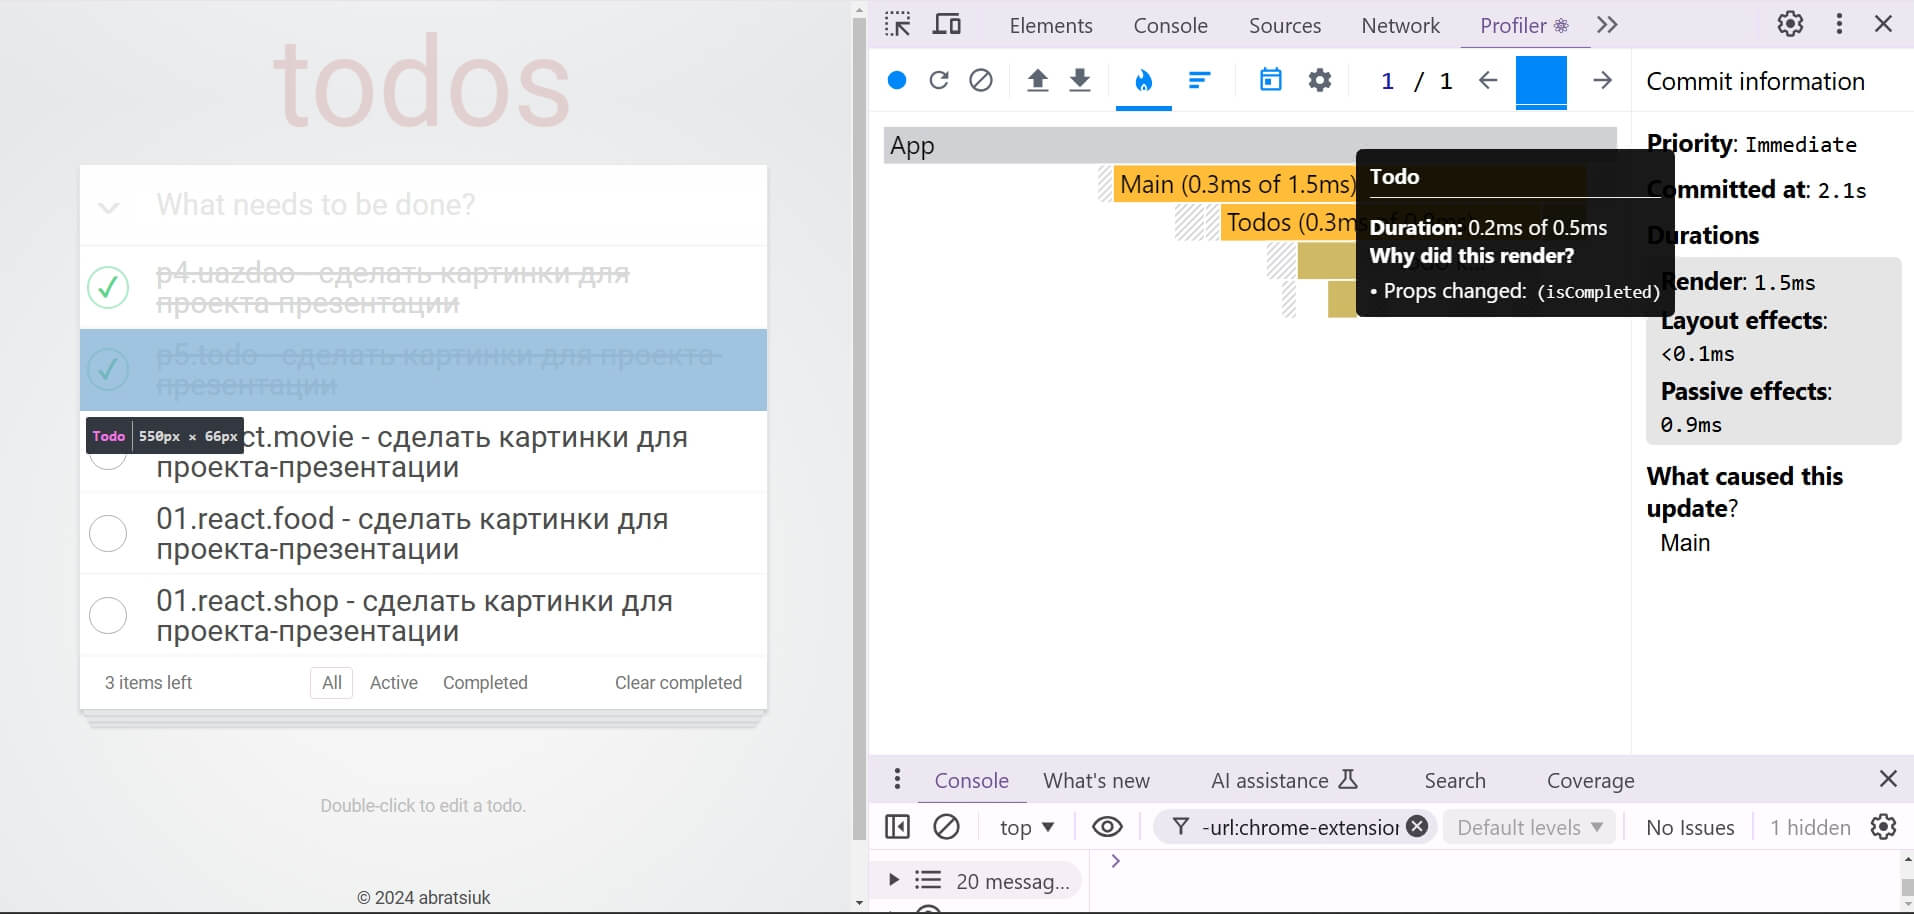
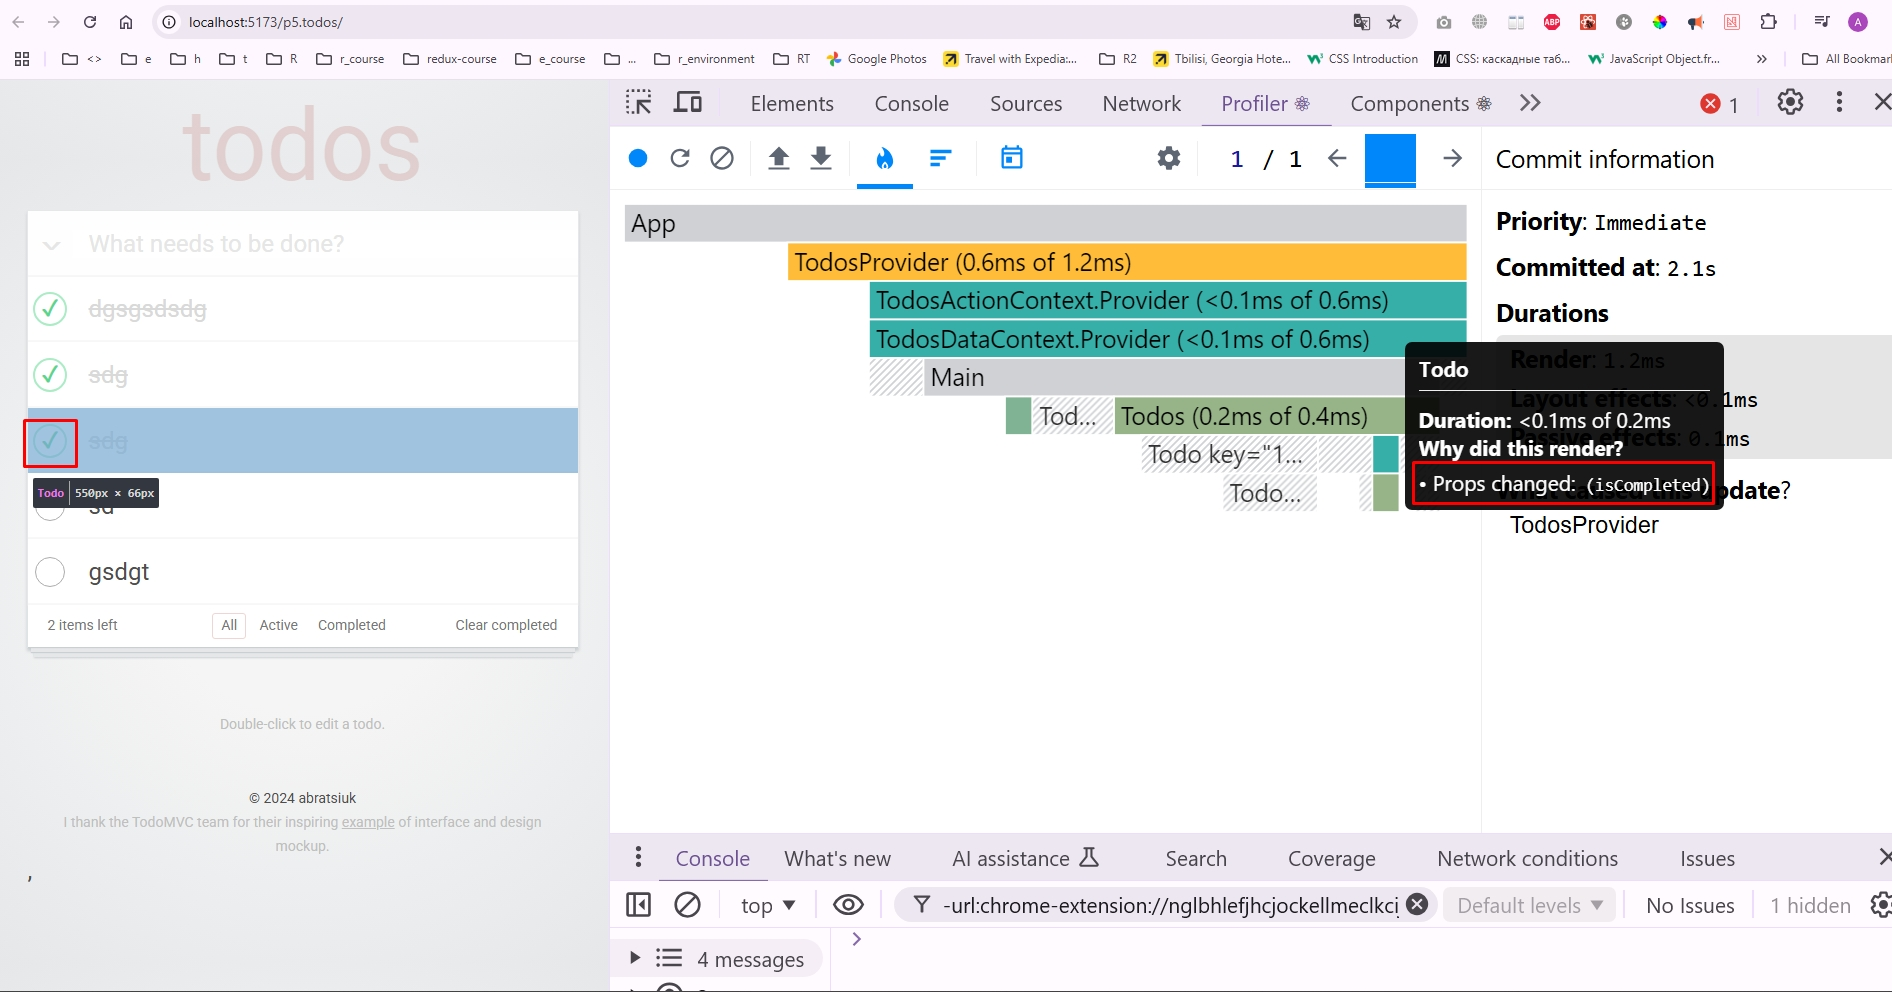
p5.todos finished

diff --git a/src/services/projectsDataRu.ts b/src/services/projectsDataRu.ts
@@ -52,7 +52,7 @@ export const projectsDataRu: IProject[] = [
     shortDescription: 'React TypeScript Todo App',
     fullDescription: [
       'Todo приложение на React и TypeScript.',
-      'Оптимизировано для уменьшения количества ререндеров.',
+      'Оптимизировано для уменьшения количества перечиток компонентов.',
     ],
     technology: [
       { image: 'images/technology/react32.png', name: 'React' },
@@ -62,12 +62,17 @@ export const projectsDataRu: IProject[] = [
     ],
     technologyAdditional: [],
     comment: 'Благодарен за макет и предложенный UI сайту TodoMVC.',
-    state: 'inProgress',
+    state: 'finished',
     demo: 'https://abratsiuk.github.io/p5.todos/',
     repo: 'https://github.com/abratsiuk/p5.todos',
     technologyDescription: [
-      'TO DO:',
-      '- заменить передачу функций в пропсах на Context',
+      'Техническое описание:',
+      '- используется React и Typescript',
+      '- оптимизирован для уменьшения количества перечиток комполнентов (используются useCallback, useMemo, React.memo)',
+      '- используется Context. Для оптимизации использует 2 контекста: для данных и отдельно для функций ( - фактически выигрыш - только нет лишней перечитки TodoNew, поскольку только этот компонент зависит только от контекста с функциями :) ) ',
+      '- используются кастомные хуки',
+      '- Sass и БЕМ методология для стилей',
+      '- cборка на Vite и используется yarn',
     ],
   },
 
